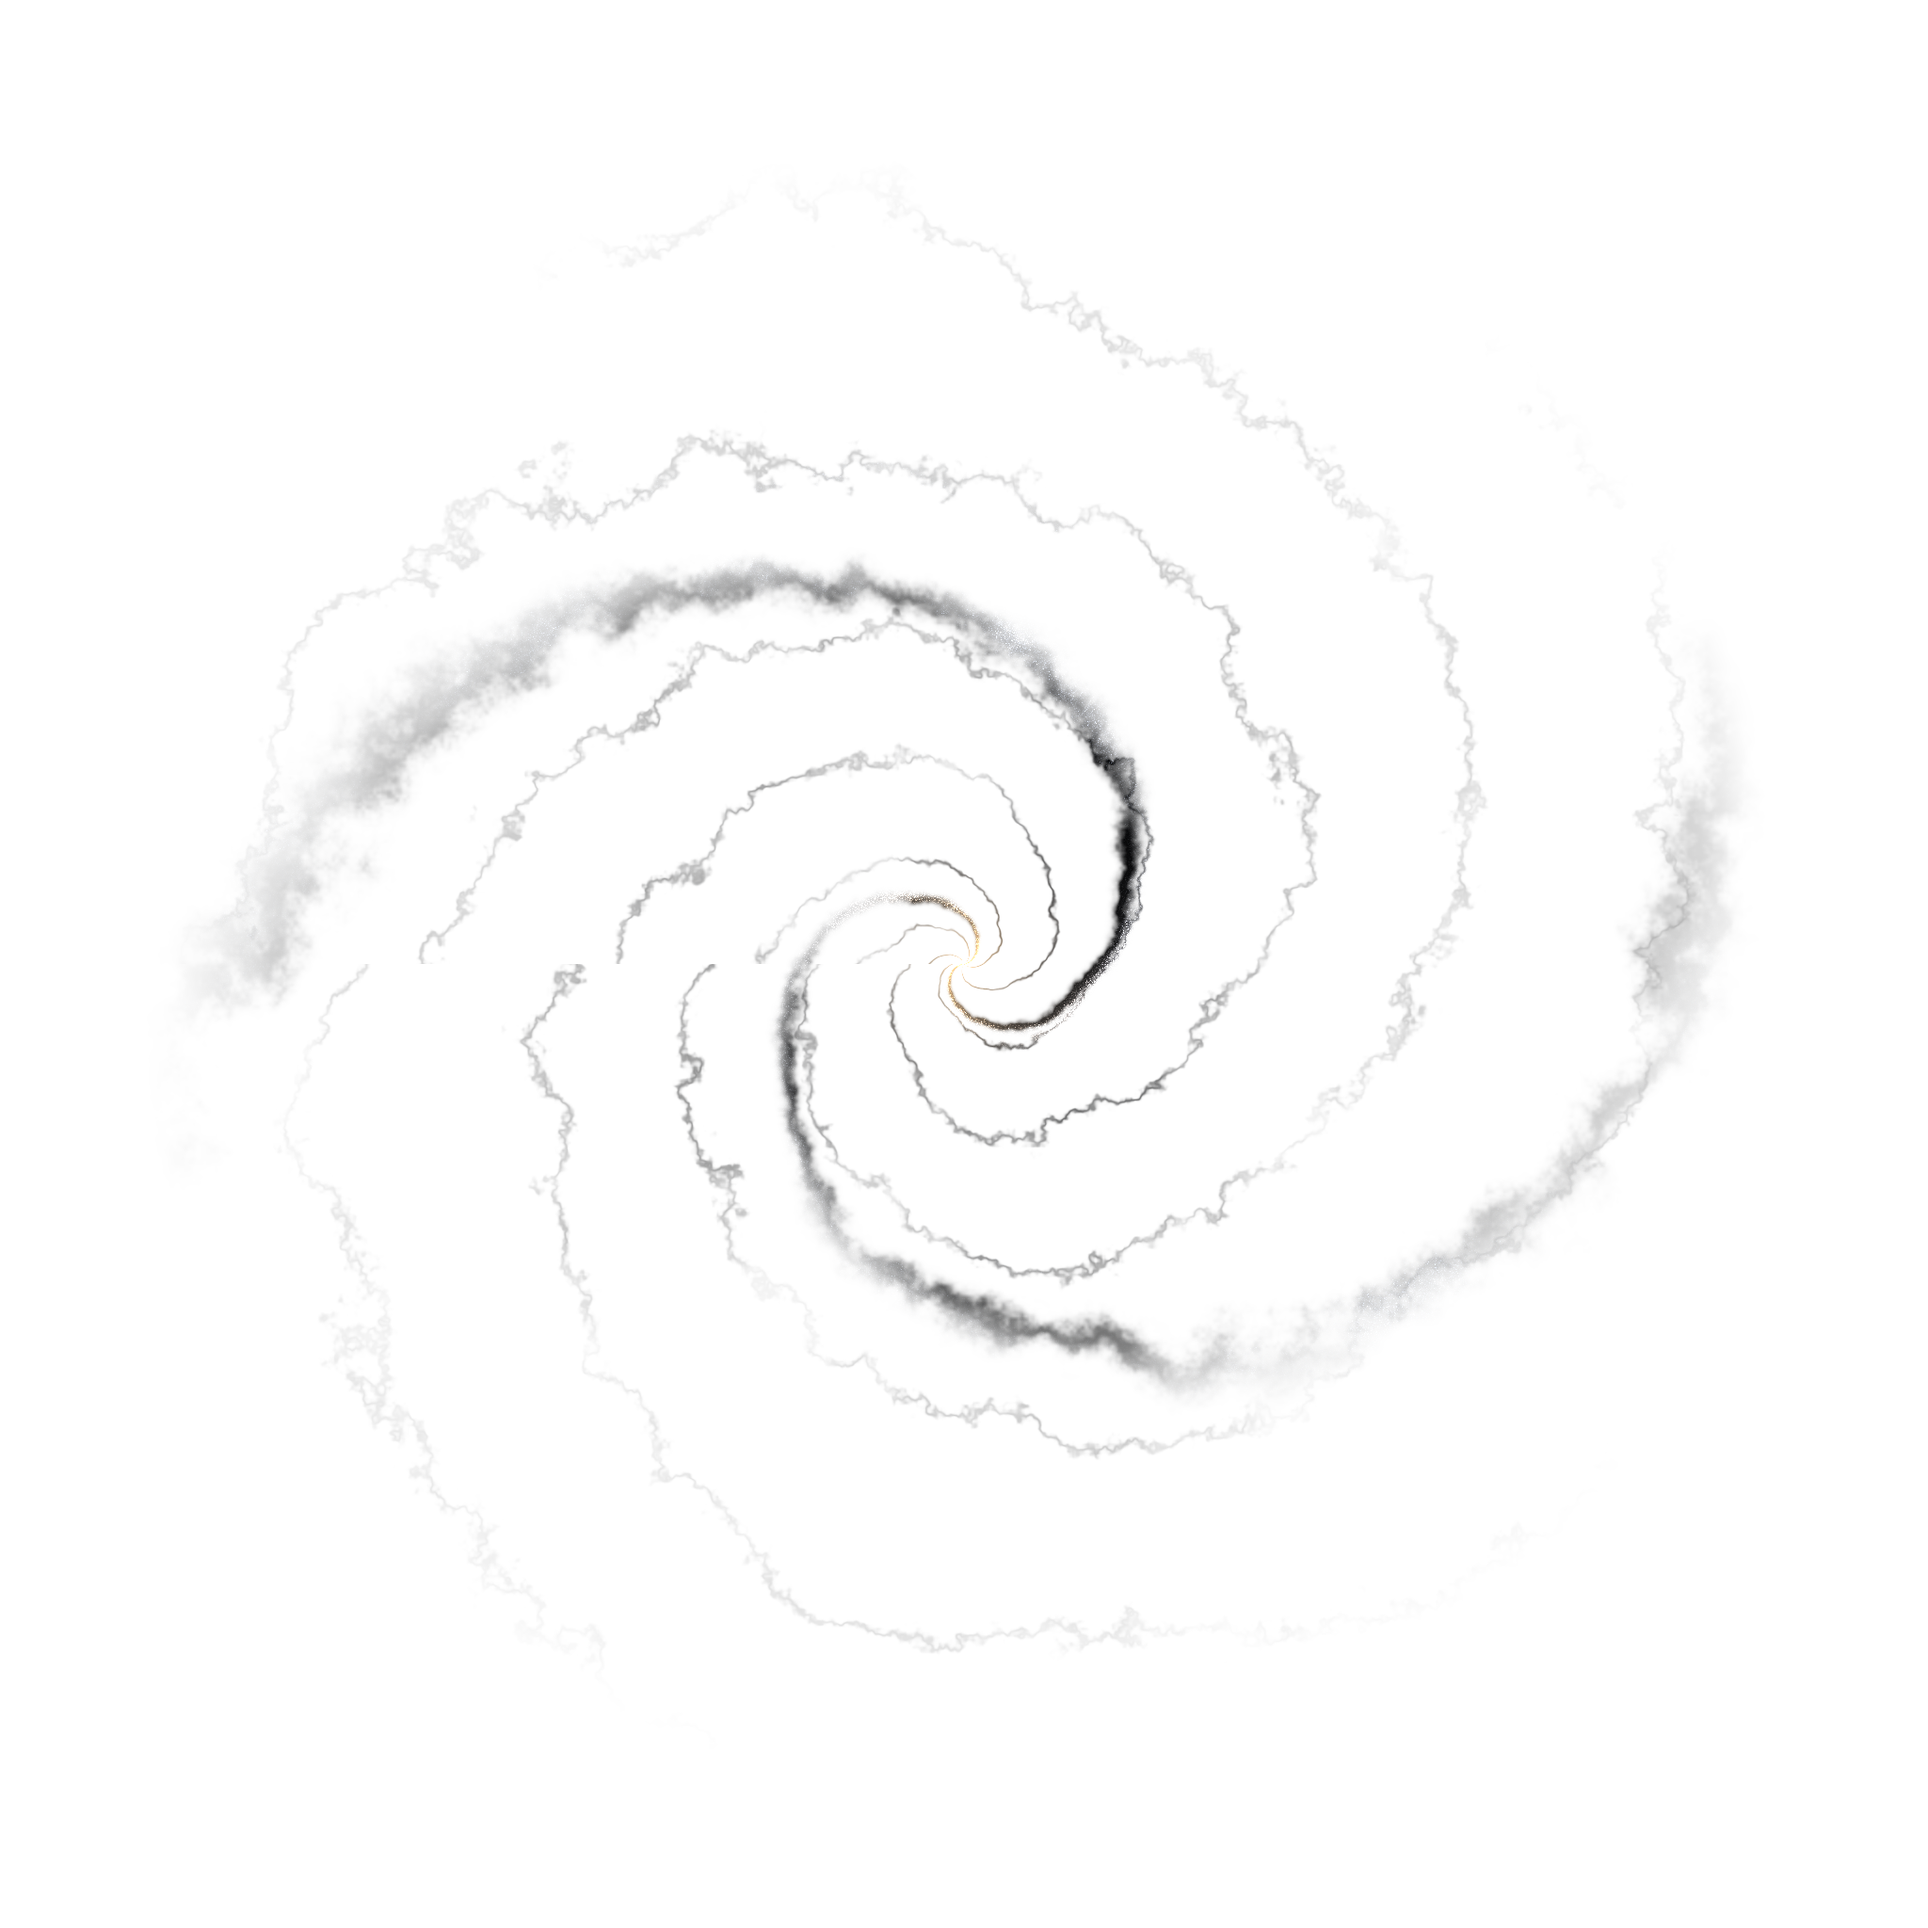
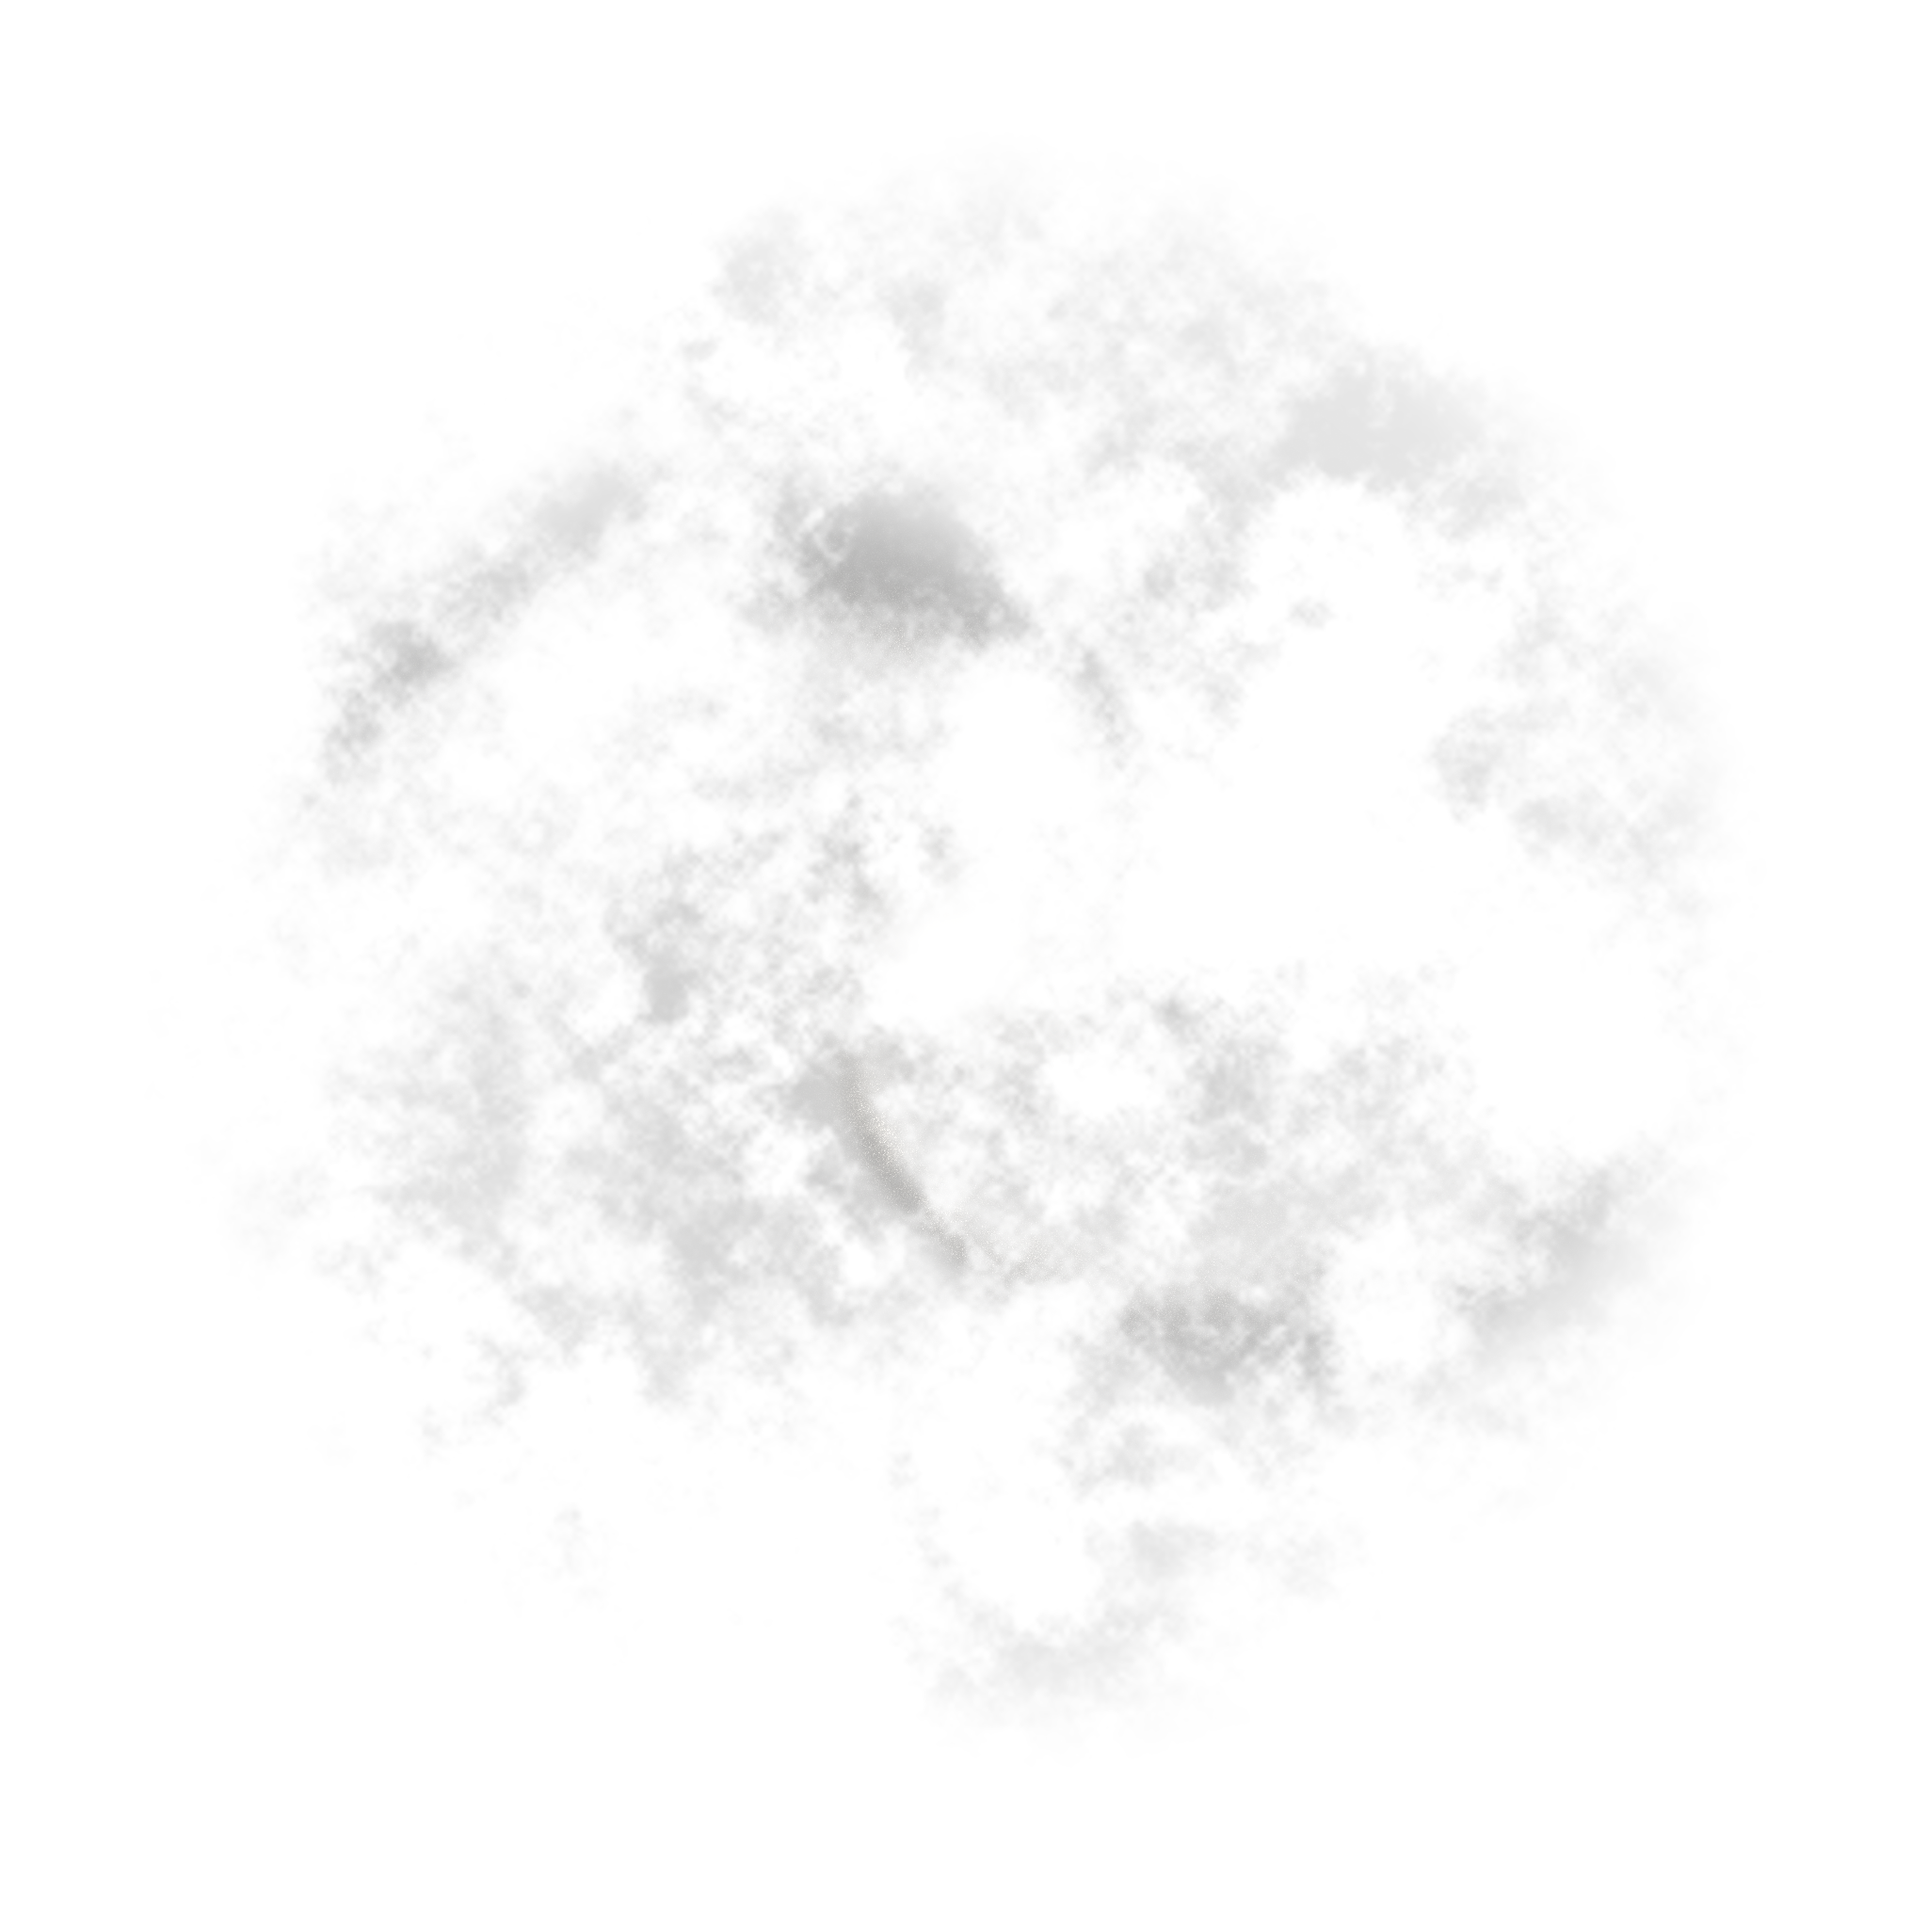
Replace pinwheel macro with original irregular stellar disk and core

diff --git a/tools/art/galaxy-macro-v4/generate.py b/tools/art/galaxy-macro-v4/generate.py
@@ -1,0 +1,103 @@
+"""Original HobbyDS9 macro galaxy v4. CPU only; no reference photograph pixels.
+Run with bundled Python/numpy/Pillow. Never overwrites a previous payload.
+"""
+from pathlib import Path
+import argparse,hashlib,json,math,shutil,time
+import numpy as np
+from PIL import Image,ImageDraw
+
+parser=argparse.ArgumentParser(description=__doc__)
+parser.add_argument('--output',required=True,type=Path,help='New, absent output directory')
+args=parser.parse_args()
+OUT=args.output.resolve()
+assert not OUT.exists(), 'Output directory must be absent; preserve all prior batches'
+OUT.mkdir(parents=True)
+shutil.copyfile(Path(__file__).resolve(),OUT/'generate.py')
+START=time.monotonic(); N=2048; SEED=420004
+rng=np.random.default_rng(SEED)
+def noise(seed):
+    rr=np.random.default_rng(seed); field=np.zeros((N,N),np.float32)
+    for size,weight in [(6,.23),(12,.22),(24,.18),(48,.14),(96,.10),(192,.08),(384,.05)]:
+        field+=np.asarray(Image.fromarray(rr.random((size,size),dtype=np.float32)).resize((N,N),Image.Resampling.BICUBIC))*weight
+    return field
+def smooth(a,b,x):
+    t=np.clip((x-a)/(b-a),0,1);return t*t*(3-2*t)
+def angle(a):return np.arctan2(np.sin(a),np.cos(a))
+large=noise(SEED);small=noise(SEED+1)
+axis=np.linspace(-1.15,1.15,N,dtype=np.float32)
+atlas=np.zeros((N,N,4),np.uint8)
+for row in range(0,N,64):
+    assert time.monotonic()-START<150,'Bounded generation timeout'
+    x,y=np.meshgrid(axis,axis[row:row+64]);a=large[row:row+64];b=small[row:row+64]
+    # Low-amplitude coordinate warp; no symmetric ring/oval support silhouette.
+    wx=x+(a-.5)*.065;wy=y+(b-.5)*.065
+    r=np.hypot(wx,wy);theta=np.arctan2(wy,wx)
+    fade=1-smooth(.82,1.0,r)
+    phase=theta+1.95*np.log(r+.13)+(a-.5)*.65+.13*np.sin(theta*3+r*4)
+    width=.16+.09*(1-r)+.08*b
+    arms=np.zeros_like(r);dust=np.zeros_like(r)
+    for i,(p,strength) in enumerate([(0,1.0),(math.pi+.22,.77)]):
+        delta=angle(phase-p)
+        ridge=np.exp(-.5*(delta/width)**2)
+        radial=smooth(.12,.27,r)*(1-smooth(.64+.11*i,1.0,r))
+        broken=.32+.68*smooth(.28,.68,a+.10*np.sin(r*19+i*2))
+        arms+=strength*ridge*radial*broken
+        dd=angle(phase-p-.20-.08*np.sin(r*11+i))
+        dust+=np.exp(-.5*(dd/(width*.46))**2)*radial*smooth(.34,.63,b)*(.6+.4*a)
+    # Two partial spurs independently terminate and curve, instead of doubling every arm.
+    for p,lo,hi,strength in [(1.13,.34,.72,.30),(4.55,.46,.91,.24)]:
+        delta=angle(phase+.6*r-p+(b-.5)*.42)
+        arms+=strength*np.exp(-.5*(delta/(width*.82))**2)*smooth(lo,lo+.08,r)*(1-smooth(hi-.08,hi,r))*smooth(.23,.66,a)
+    # Widespread unresolved stellar population connects arms into a luminous disk.
+    disk=np.exp(-r*2.9)*fade
+    clumps=.60+1.25*smooth(.28,.72,a)*smooth(.25,.75,b)
+    grain=rng.gamma(1.3,1/1.3,r.shape).astype(np.float32)
+    emission=disk*(.125+.95*arms*clumps)*(.78+.22*grain)
+    # Elliptical old-star bulge, a broad halo and differentiated compact nucleus.
+    re=np.sqrt((x/1.10)**2+(y/.86)**2)
+    bulge=.61*np.exp(-re/.115)+.10*np.exp(-re*re/.035)
+    nucleus=.13*np.exp(-(re/.021)**2)
+    emission+=bulge*(.96+.04*a)+nucleus
+    # Fragmented extinction: coarse clouds + offset arm-edge dust, tapered near nucleus.
+    patch=smooth(.45,.69,b)*smooth(.31,.66,a)*.32
+    extinction=(dust*.48+patch)*np.exp(-r*1.45)*fade*smooth(.035,.14,r)
+    warmth=np.exp(-r*4)
+    tint=np.stack([np.ones_like(r),.965+.012*(1-warmth),.905+.035*(1-warmth)],axis=-1)
+    atlas[row:row+64,:,:3]=np.uint8(np.clip(emission[:,:,None]*tint,0,1)*255+.5)
+    atlas[row:row+64,:,3]=np.uint8(np.clip(extinction,0,1)*255+.5)
+atlas[[0,-1]]=0;atlas[:,[0,-1]]=0
+Image.fromarray(atlas,'RGBA').save(OUT/'galaxy-linear-rgba.png')
+
+def srgb(x):return np.where(x<=.0031308,x*12.92,1.055*np.maximum(x,0)**(1/2.4)-.055)
+def sample(x,y):
+    u=np.clip((x+1.15)/2.3*(N-1),0,N-1);v=np.clip((y+1.15)/2.3*(N-1),0,N-1)
+    ix=u.astype(np.int32);iy=v.astype(np.int32);fx=(u-ix)[...,None];fy=(v-iy)[...,None]
+    jx=np.minimum(ix+1,N-1);jy=np.minimum(iy+1,N-1)
+    return ((atlas[iy,ix]*(1-fx)+atlas[iy,jx]*fx)*(1-fy)+(atlas[jy,ix]*(1-fx)+atlas[jy,jx]*fx)*fy)/255
+stats={}
+for name,inclined in [('face-on',False),('inclined',True)]:
+    size=960;u,v=np.meshgrid(np.linspace(-1.23,1.23,size,dtype=np.float32),np.linspace(-1.23,1.23,size,dtype=np.float32))
+    if inclined:
+        c=math.cos(math.radians(32));s=math.sin(math.radians(32))
+        x=c*u+s*v;y=(-s*u+c*v)/math.cos(math.radians(48))
+    else:x,y=u,v
+    data=sample(x,y);inside=(abs(x)<=1.15)&(abs(y)<=1.15)
+    # Illustrative single column only, not the Unity twelve-bin optical integration.
+    light=np.array([.0015,.0023,.004])+data[:,:,:3]*.12*np.exp(-4*data[:,:,3:]*.65)*inside[:,:,None]
+    im=Image.fromarray(np.uint8(np.clip(srgb(light),0,1)*255+.5),'RGB')
+    im.save(OUT/f'preview-{name}.png')
+    lum=light@np.array([.2126,.7152,.0722]);stats[name]={'meanLinear':float(lum.mean()),'p95Linear':float(np.quantile(lum,.95)),'p99Linear':float(np.quantile(lum,.99))}
+def sha(p):return hashlib.sha256(p.read_bytes()).hexdigest()
+contract={'version':'galaxy-macro-v4','seed':SEED,'originalProceduralArt':True,'referencePixelsUsed':False,
+ 'sourceLineage':'Original HobbyDS9 v3 CPU recipe, rewritten macro morphology; v3 local volume/particles untouched.',
+ 'dimensions':[2048,2048],'format':'RGBA8 PNG, linear numerical channels; sRGB importer OFF',
+ 'channels':{'RGB':'Independent unpremultiplied stellar emission, including bulge+nucleus','A':'Independent dust extinction, not transparency'},
+ 'orientation':'PNG row0 is authored y=-1.15; x grows left-to-right, y grows row-down; one existing Unity row/UV correction',
+ 'bounds':[-1.15,1.15,-1.15,1.15],'support':'Smooth zero by radius1; >.15 black padding, explicit zero exterior faces',
+ 'import':'RGBA32, uncompressed, linear, nonreadable, Clamp/Trilinear, independent box-filtered complete mips; alphaIsTransparency=false',
+ 'gpuAtlasBytesWithMips':22369620,'runtime':'Use asset-emission partition into thin disk and thick bulge; do not add/replace a second analytical core. Existing12 ray bins and depth unchanged.',
+ 'previewLimit':'CPU illustrative single-column .12 RGB exp(-4*A*.65), sRGB output. Not actual Unity shader, parallax, visibility, GPU performance or art acceptance evidence.',
+ 'previewStats':stats,'generationSeconds':time.monotonic()-START,
+ 'hashes':{name:sha(OUT/name) for name in ('generate.py','galaxy-linear-rgba.png','preview-face-on.png','preview-inclined.png')}}
+(OUT/'contract.json').write_text(json.dumps(contract,indent=2),encoding='utf-8')
+print(json.dumps({'output':str(OUT),'seconds':time.monotonic()-START,'hashes':contract['hashes']}))

diff --git a/client/HobbyDS9.Unity/Assets/HobbyDS9/Review/Tests/GeneratedGalaxyEngineTests.V3.cs b/client/HobbyDS9.Unity/Assets/HobbyDS9/Review/Tests/GeneratedGalaxyEngineTests.V3.cs
@@ -285,6 +285,7 @@ namespace HobbyDS9.UnityReview.Tests
                 using(var renderer=new GeneratedGalaxyV3Background(synthetic,()=>true))
                 {
                     var receipts=new List<object>();var seen=new HashSet<string>(StringComparer.Ordinal);bool transitioning=false;
+                    Assert.That(renderer.Render(view,320,180,true,true),Is.True);
                     for(int frame=0;frame<24;frame++)
                     {
                         if(frame<8)view.Pan(-1,0);

diff --git a/docs/navigation-and-galaxy-feedback-2026-10-24.md b/docs/navigation-and-galaxy-feedback-2026-10-24.md
@@ -20,4 +20,10 @@ Independent review of 6356c55 found a weighted-prefix append regression. The fol
 
 Receiving tests now distinguish immediate ordinary travel from replacement confirmation and include blank-tile pooled panel input, Shift append preserving the accepted prefix, activity-replacement Cancel, and save/load order retention. These are test definitions until actual Unity XML and rendered artifacts prove execution; pooled panel events are not native desktop input.
 
+Resumed receiving evidence: source 1327598 passed the actual navigation Editor test (85.82 seconds), three rendered sizes, StayEngage replacement Cancel byte-exact, blank-polygon pointer-down/capture/release, immediate travel, appended prefix, and save/menu/Continue order sequence. Evidence: E:/HobbyDS9/artifacts/navigation-engine-1327598-20261024. Independent review confirms the pale-blue accepted route is visible after reload; no fleet is selected after load, so it is not amber. This does not prove OS-level Shift handling or fresh-process continuation. Full portable2110 and travel-client90 tests passed; the three historical roots replay and encode byte-exact. The exact-prefix correction received independent source review with no blockers.
+
+The actual v3 renderer receiving test passed167.98 seconds with19 labelled images at E:/HobbyDS9/artifacts/galaxy-feedback-engine-1327598-20261024. Regional local-on/off comparisons reported zero changed exterior pixels at all three sizes (8-bit composed UI only); the synthetic overlap remained eight fields/256particles/39,959,040 worst-case fetches. This proves the stated clipping/workload checks, not GPU timing or native motion. Owner recording was decoded locally (2.9333seconds/88frames); frames show the whole coloured nebula briefly absent around0.37seconds and returning around0.57seconds, consistent with the global-residency-fade diagnosis. A new actual-render residency-pan regression is pending.
+
+Art rejection remains explicit: the1327598 core is still a blurred pinwheel. A new original macro-only atlas from the art director is staged for actual Unity review. It supplies a connected off-white stellar disk, broad asymmetric broken arms, an elliptical bulge/nucleus and independent patchy extinction. The shader partitions atlas emission between thin/thick kernels rather than adding a second analytical core. Local nebula volume/particles, generated topology, game knowledge, saves and gameplay are unchanged. Source/asset provenance is retained under tools/art/galaxy-macro-v4. No new executable or latest-pointer promotion is accepted yet.
+
 References: [design index](design/README.md), [architecture](architecture.md), [movement](design/time-movement-mobilisation.md), [exploration](design/exploration-missions.md), [AI](design/strategic-ai.md). Preserve proposed/open roadmap status. Included usage monitoring/90% stop and purchased-balance protection remain active for this scoped task.
